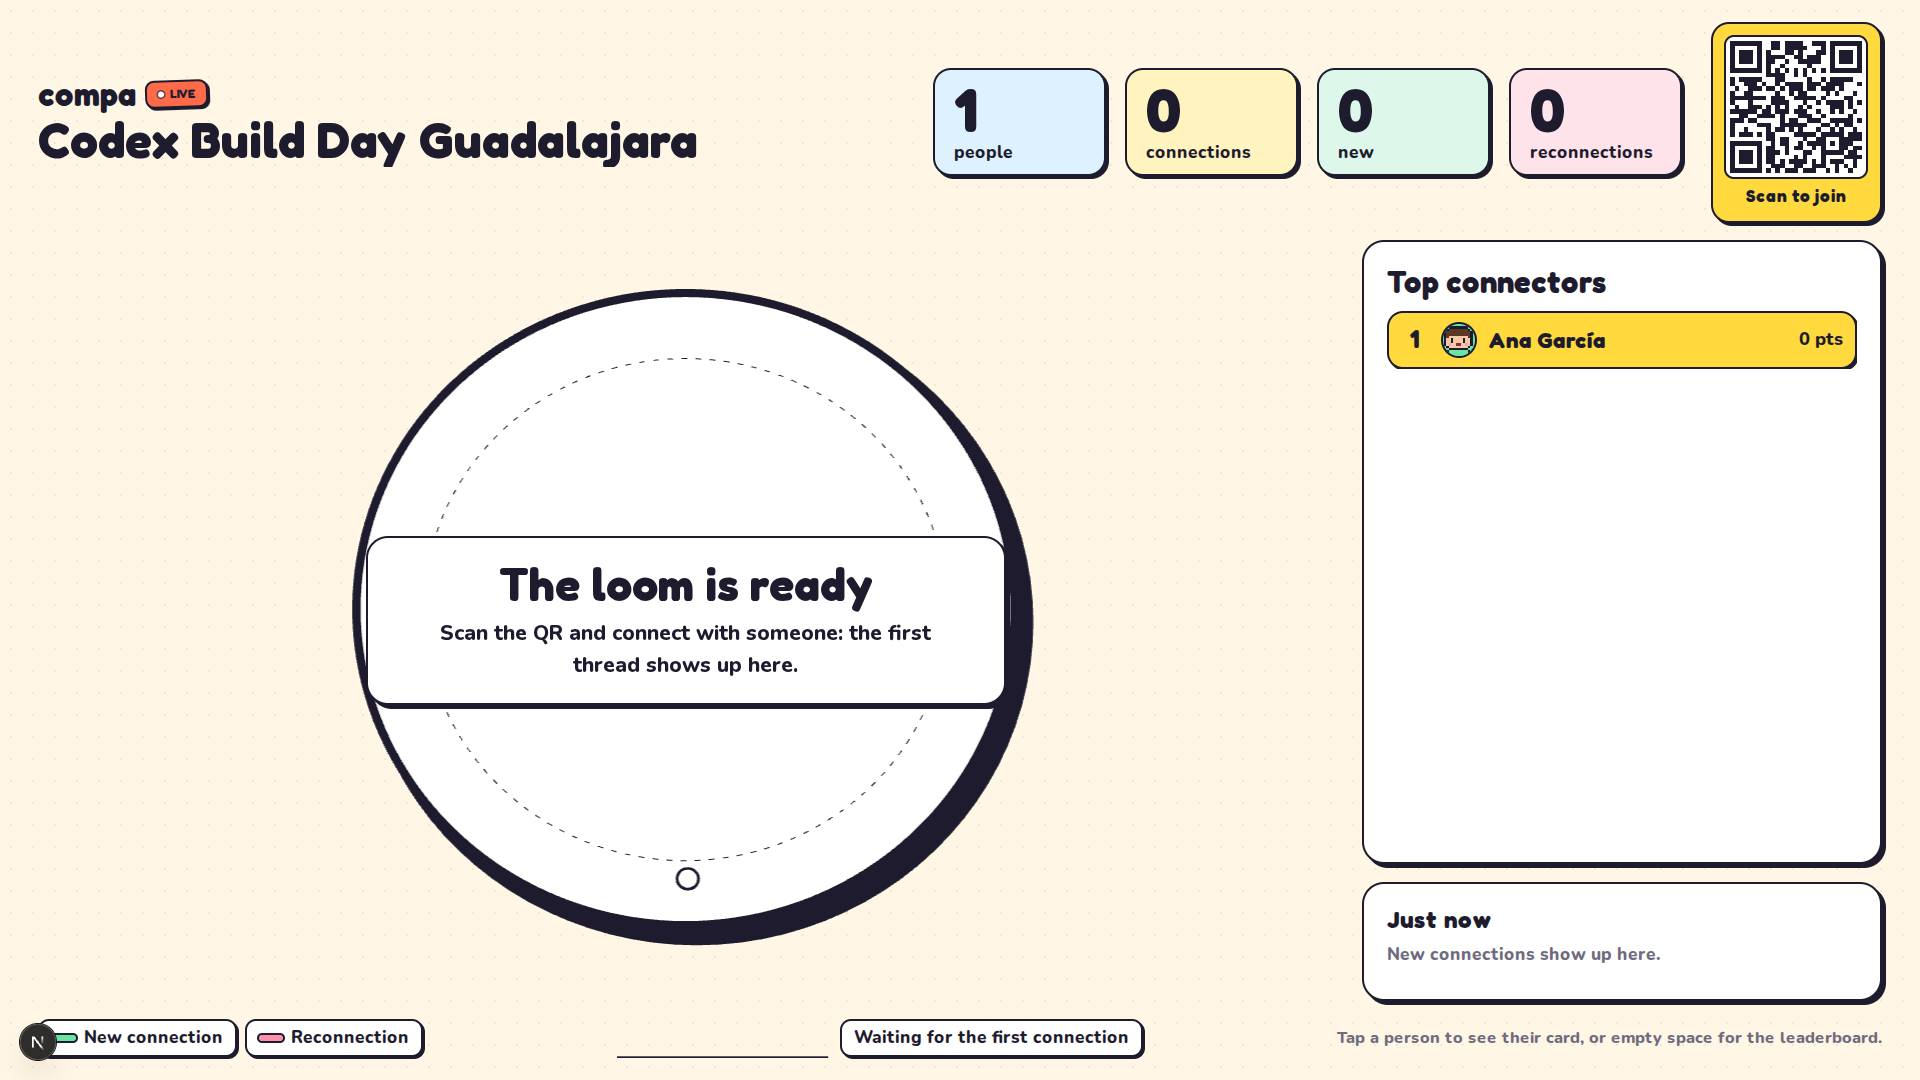
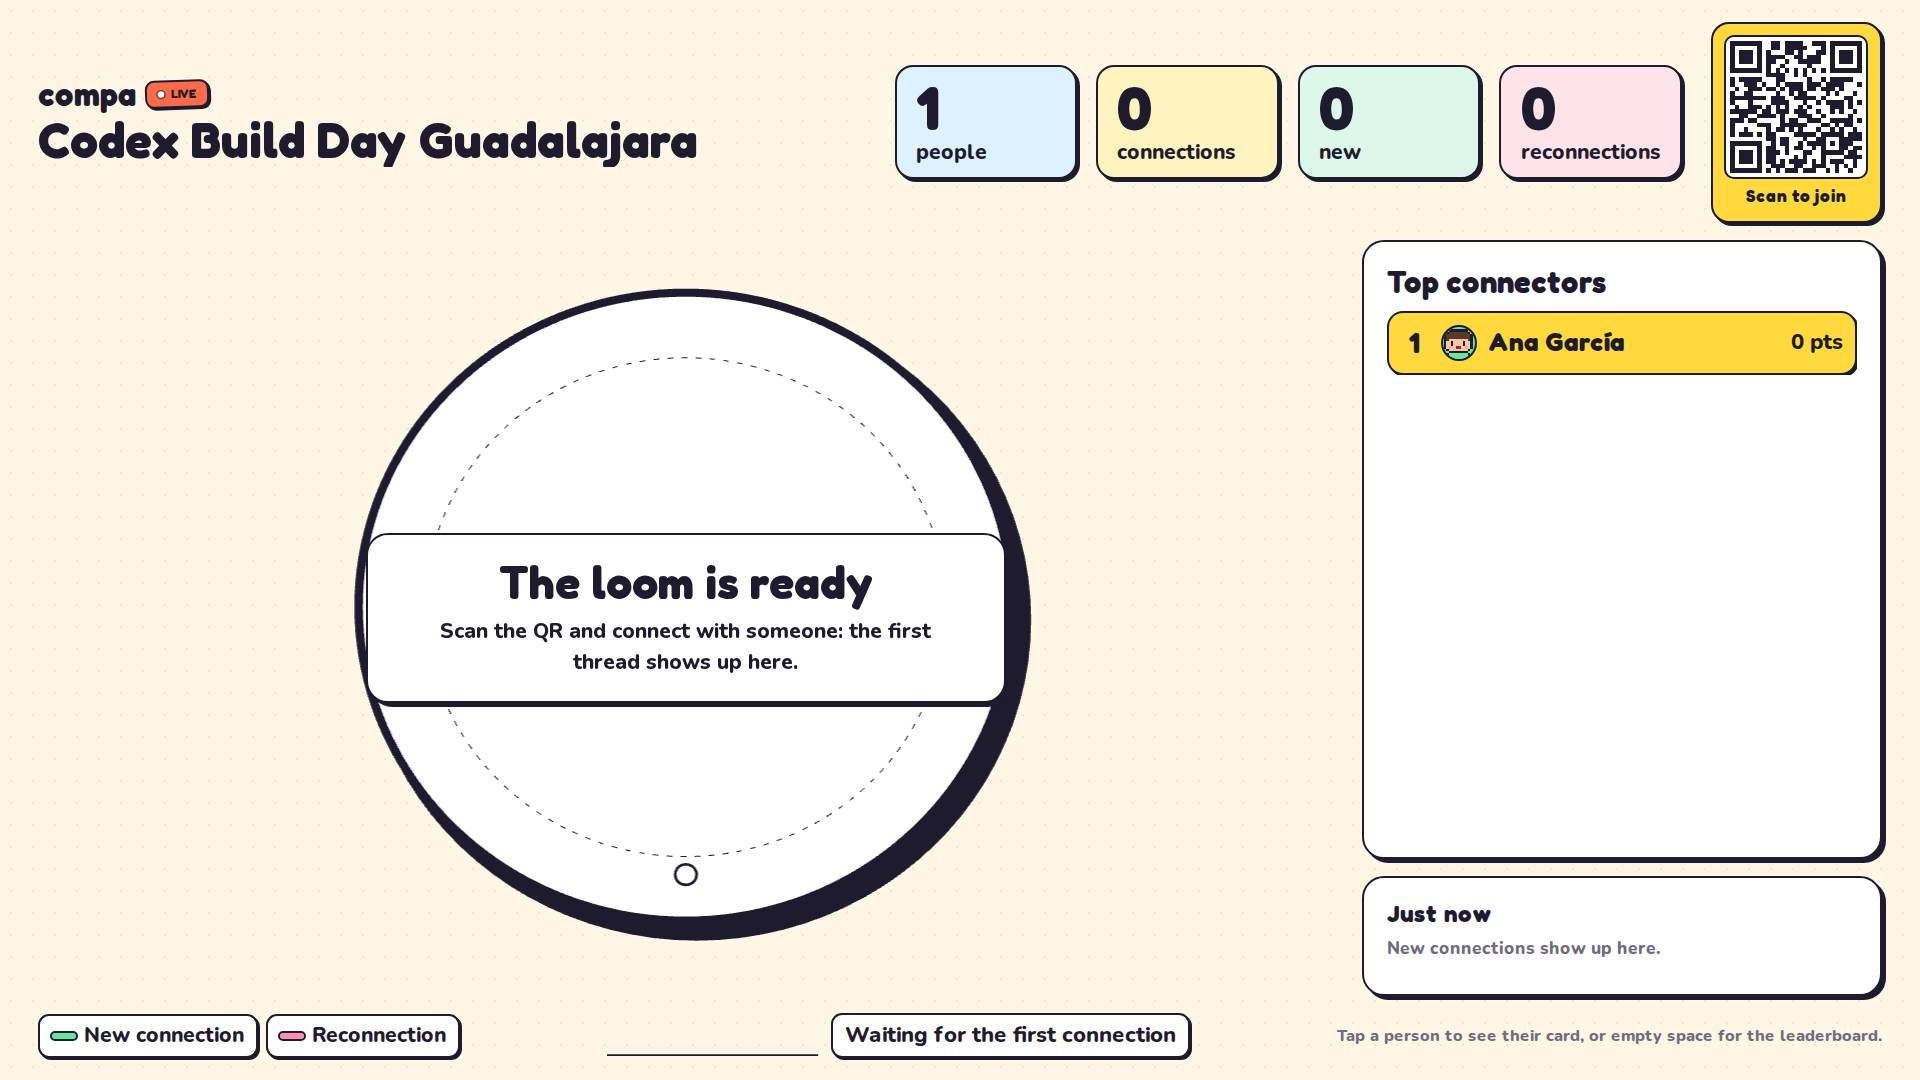
test(live): check the loom's draw calls instead of headless fps
Headless software WebGL on a loaded machine measured 1 fps for the 2,500-person board, which says nothing about a venue GPU. The loom now publishes its draw calls, and the spec asserts they stay flat (under 120, from about 13,000 before) and that the board still answers a tap. The ranking shows the top 5 so the larger type never clips, and screenshots wait for entrance animations.

diff --git a/e2e/live/live-board.spec.ts b/e2e/live/live-board.spec.ts
@@ -40,6 +40,15 @@ async function openBoard(page: Page, name: ScenarioName, polls = 1, options: Ser
 
 async function shot(page: Page, name: string) {
   const dir = process.env.LIVE_SHOTS;
+  // Let entrance animations (feed rows, podium) finish; the endless ones (live dot, rush pill) never do.
+  await page.evaluate(() =>
+    Promise.all(
+      document
+        .getAnimations()
+        .filter((animation) => animation.effect?.getComputedTiming().iterations !== Infinity)
+        .map((animation) => animation.finished.catch(() => undefined)),
+    ),
+  );
   await page.screenshot({ path: test.info().outputPath(`${name}.png`) });
   if (dir) await page.screenshot({ path: path.join(dir, `${name}.jpg`), type: "jpeg", quality: 70 });
 }
@@ -159,27 +168,17 @@ test.describe("live board scenarios @live @mock", () => {
     await shot(page, "missing-photos-1920");
   });
 
-  test("thousands: 2,500 people and 4,000+ threads stay responsive", async ({ page }) => {
+  test("thousands: 2,500 people and 4,000+ threads stay flat and responsive", async ({ page }) => {
     await openBoard(page, "thousands", 2);
     await expect(counter(page, "people")).toHaveText("2,500");
-    const fps = await page.evaluate(
-      () =>
-        new Promise<number>((resolve) => {
-          let frames = 0;
-          const start = performance.now();
-          const step = (now: number) => {
-            frames++;
-            if (now - start < 2000) return requestAnimationFrame(step);
-            resolve((frames * 1000) / (now - start));
-          };
-          requestAnimationFrame(step);
-        }),
-    );
-    test.info().annotations.push({ type: "fps", description: fps.toFixed(1) });
-    console.log(`thousands fps: ${fps.toFixed(1)}`);
-    // Headless software WebGL (SwiftShader) draws an empty ring at ~22 fps on CI-class machines, far below a venue
-    // laptop's GPU; this guards against a frozen page (it was 0.2 fps before the instanced loom), not a frame target.
-    expect(fps).toBeGreaterThan(1);
+    // One mesh per peg and per thread drew ~13,000 calls (0.2 fps); instanced pegs and a merged weave stay near 60.
+    // fps is not asserted: headless software WebGL on a loaded machine says nothing about a venue GPU.
+    const host = page.locator("[data-draw-calls]");
+    await expect.poll(async () => Number(await host.getAttribute("data-draw-calls"))).toBeGreaterThan(0);
+    expect(Number(await host.getAttribute("data-draw-calls"))).toBeLessThan(120);
+    await page.getByTestId("live-leaderboard").locator("li button").first().click();
+    await expect(page.getByTestId("live-person")).toBeVisible();
+    await page.getByRole("button", { name: "Show leaderboard" }).click();
     await shot(page, "thousands-1920");
   });
 });

diff --git a/components/live/loom-scene.ts b/components/live/loom-scene.ts
@@ -350,10 +350,17 @@ export class LoomScene {
     for (const [id, thread] of this.fresh) this.advance(id, thread, now, dt);
     if (this.weaveDirty) this.rebuildWeave();
     // Reduced motion with nothing drawing: the frame is unchanged, so skip the GPU work entirely.
-    if (this.needsRender) this.renderer.render(this.scene, this.camera);
+    if (this.needsRender) this.render();
     this.needsRender = false;
     this.frame = requestAnimationFrame(this.tick);
   };
+
+  // Draw calls stay flat however full the room is; the count is published for the e2e scale check.
+  private render(): void {
+    this.renderer.render(this.scene, this.camera);
+    const calls = String(this.renderer.info.render.calls);
+    if (this.host.dataset.drawCalls !== calls) this.host.dataset.drawCalls = calls;
+  }
 
   private advance(id: string, thread: Thread, now: number, dt: number): void {
     this.needsRender = true;

diff --git a/components/live/LiveBoard.tsx b/components/live/LiveBoard.tsx
@@ -142,7 +142,7 @@ export function LiveBoard({ code, initial, qrSvg, joinUrl, locale: serverLocale 
         <div className="flex min-h-0 flex-col gap-4 lg:gap-[1.6vh]">
           {ended && rows.length > 0 && <Podium rows={rows} locale={locale} onSelect={setSelectedId} />}
           {selected && <PersonPanel code={code} id={selected} rank={rows.find((row) => row.id === selected)?.rank ?? null} locale={locale} onClose={() => setSelectedId(null)} />}
-          {!selected && !(ended && rows.length <= 3) && <LeaderboardPanel rows={rows} locale={locale} onSelect={setSelectedId} from={ended ? 3 : 0} limit={ended ? 5 : 6} />}
+          {!selected && !(ended && rows.length <= 3) && <LeaderboardPanel rows={rows} locale={locale} onSelect={setSelectedId} from={ended ? 3 : 0} limit={5} />}
           {!ended && <Feed snapshot={snapshot} locale={locale} limit={4} />}
         </div>
       </div>

diff --git a/DESIGN.md b/DESIGN.md
@@ -214,7 +214,7 @@ Approved decisions (A5, A6, M13, M16). The handoff has no big-screen mock.
 - **Updates:** the public Realtime channel `event:<code>:live` (`connection.accepted`, `attendee.checked_in`, `summary.approved`), with snapshot polling as a fallback (the snapshot is cached for 1 s).
 - **Everyone checked in appears.** There is no anonymous mode, and check-in records the consent (M13).
 - **Size:** 1920×1080, readable from 10 m (`AGENTS.md` §4).
-- **As built (Loom+):** the network is "El Telar" (a ring of pegs, threads between them), with a 30-minute pulse and mood line, a "Just now" feed of the newest pairs, the top 6 (shared places for ties), state cards for upcoming, empty and ended, a final podium after the close, an "Ends in N min" pill in the last ten minutes and a "Reconnecting… last update" pill. Rationale and screenshots: [docs/research/live-dataviz-decision.md](docs/research/live-dataviz-decision.md).
+- **As built (Loom+):** the network is "El Telar" (a ring of pegs, threads between them), with a 30-minute pulse and mood line, a "Just now" feed of the newest pairs, the top 5 (shared places for ties), state cards for upcoming, empty and ended, a final podium after the close, an "Ends in N min" pill in the last ten minutes and a "Reconnecting… last update" pill. Rationale and screenshots: [docs/research/live-dataviz-decision.md](docs/research/live-dataviz-decision.md).
 - **Figma file:** [COMPA — App flows (V2)](https://www.figma.com/design/UEnpABAPbq7WJUfhfoYi46): foundations, components, every flow with happy, empty, error and edge states, and the prototype.
 
 ## Decided vs open

diff --git a/docs/research/live-dataviz-decision.md b/docs/research/live-dataviz-decision.md
@@ -13,7 +13,7 @@ ranking, pulse, feed and finale are fixed slots, so nothing jumps around on a pr
 | Loom | Every checked-in person a peg, every accepted connection a thread (mint new, bubblegum reconnection); new threads draw in thick and ink-outlined, then settle | `loom-scene.ts` |
 | Pulse | Connections per minute for the last 30 min (current minute in sun) and a mood line: "12 in the last 5 min", "N connections in 5 min!" (rush), "Quiet moment: say hi to someone new" | `Pulse` in `LiveActivity.tsx` |
 | Feed ("Just now") | The 4 newest pairs, "Ana ⇄ Luis", with "2 min ago"; names only, never what was said (p. 6, p. 13) | `Feed` |
-| Ranking | Top 6 with photos; equal points and connections share a place (1, 1, 3) | `LeaderboardPanel` |
+| Ranking | Top 5 with photos; equal points and connections share a place (1, 1, 3) | `LeaderboardPanel` |
 | State card | Over the loom: "Doors open at 7:00 PM" (upcoming), "Nobody is in yet" / "The loom is ready" (empty), "That's a wrap! 120 people wove 300 connections" (ended) | `StateCard` |
 | Finale | After the close: final podium (1st in the middle, ties marked), then places 4–8; the pulse shows the event's last half hour, polling slows to 15 s | `Podium` |
 | Reconnecting | "Reconnecting… last update 7:42 PM" pill; failed polls back off 3 → 30 s; the tab coming back or the network returning polls at once | `useLiveSnapshot.ts` |

diff --git a/wiki/live-dashboard.md b/wiki/live-dashboard.md
@@ -31,7 +31,7 @@ The plan's podium-plus-topics layout was replaced by **Loom+**, chosen after pro
 | Loom | Pegs on a ring (people), threads (accepted connections; mint new, bubblegum reconnection); new threads draw in, then settle. Instanced and merged, so 2,500 people and 4,000 links stay drawable |
 | Pulse | Connections per minute, last 30 min, with a mood line (steady, rush, quiet, empty, upcoming, final) |
 | Feed | The 4 newest pairs, "Ana ⇄ Luis", names only (p. 6) |
-| Ranking | Top 6; equal points and connections share a place |
+| Ranking | Top 5; equal points and connections share a place |
 | States | Upcoming, empty and ended cards over the loom; final podium after the close; "Ends in N min" in the last ten minutes; "Reconnecting… last update" when polls fail or stall |
 
 Data: polling every 3 s (15 s after the close, backing off to 30 s on failure); the snapshot carries `event.phase`, `startsAt`, `endsAt`, each person's connection count and at most the newest 1,500 connections (`docs/specs/2026-10-29-api.md` §5). Topics are not in the snapshot yet, so there is no topic race. Scenarios and their e2e coverage: `lib/testing/live-scenarios.ts`, `e2e/live/live-board.spec.ts`.
